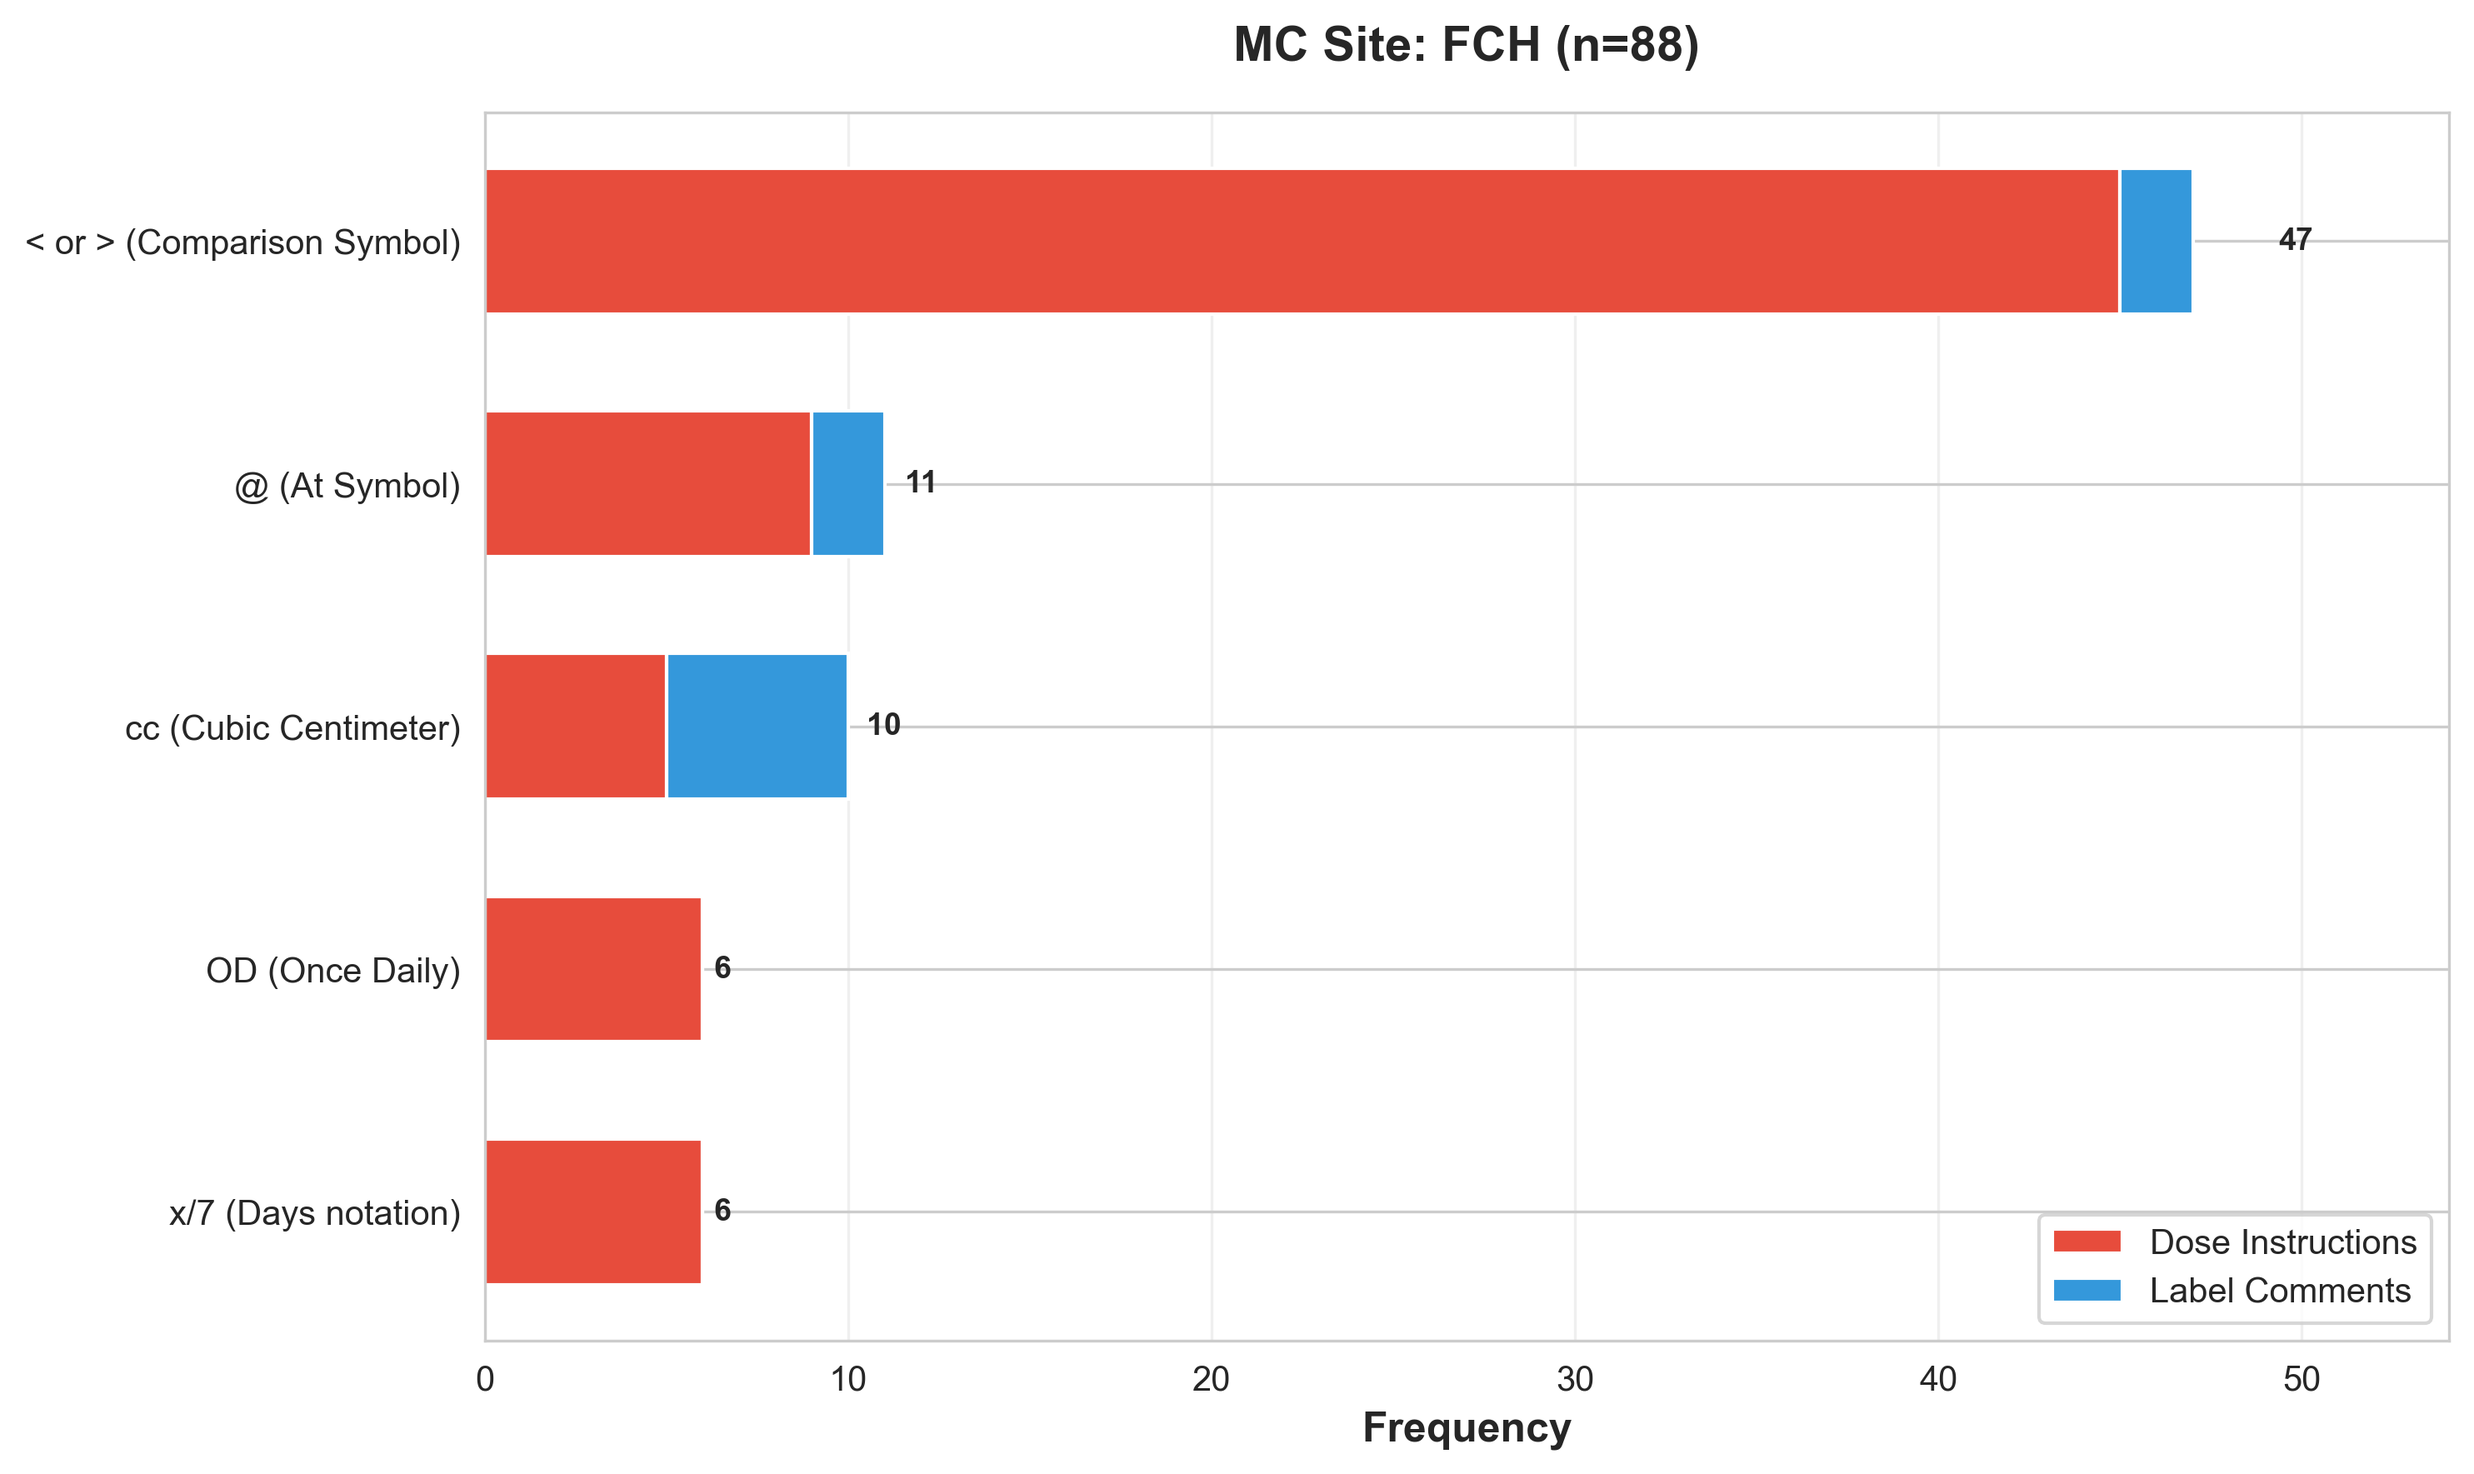
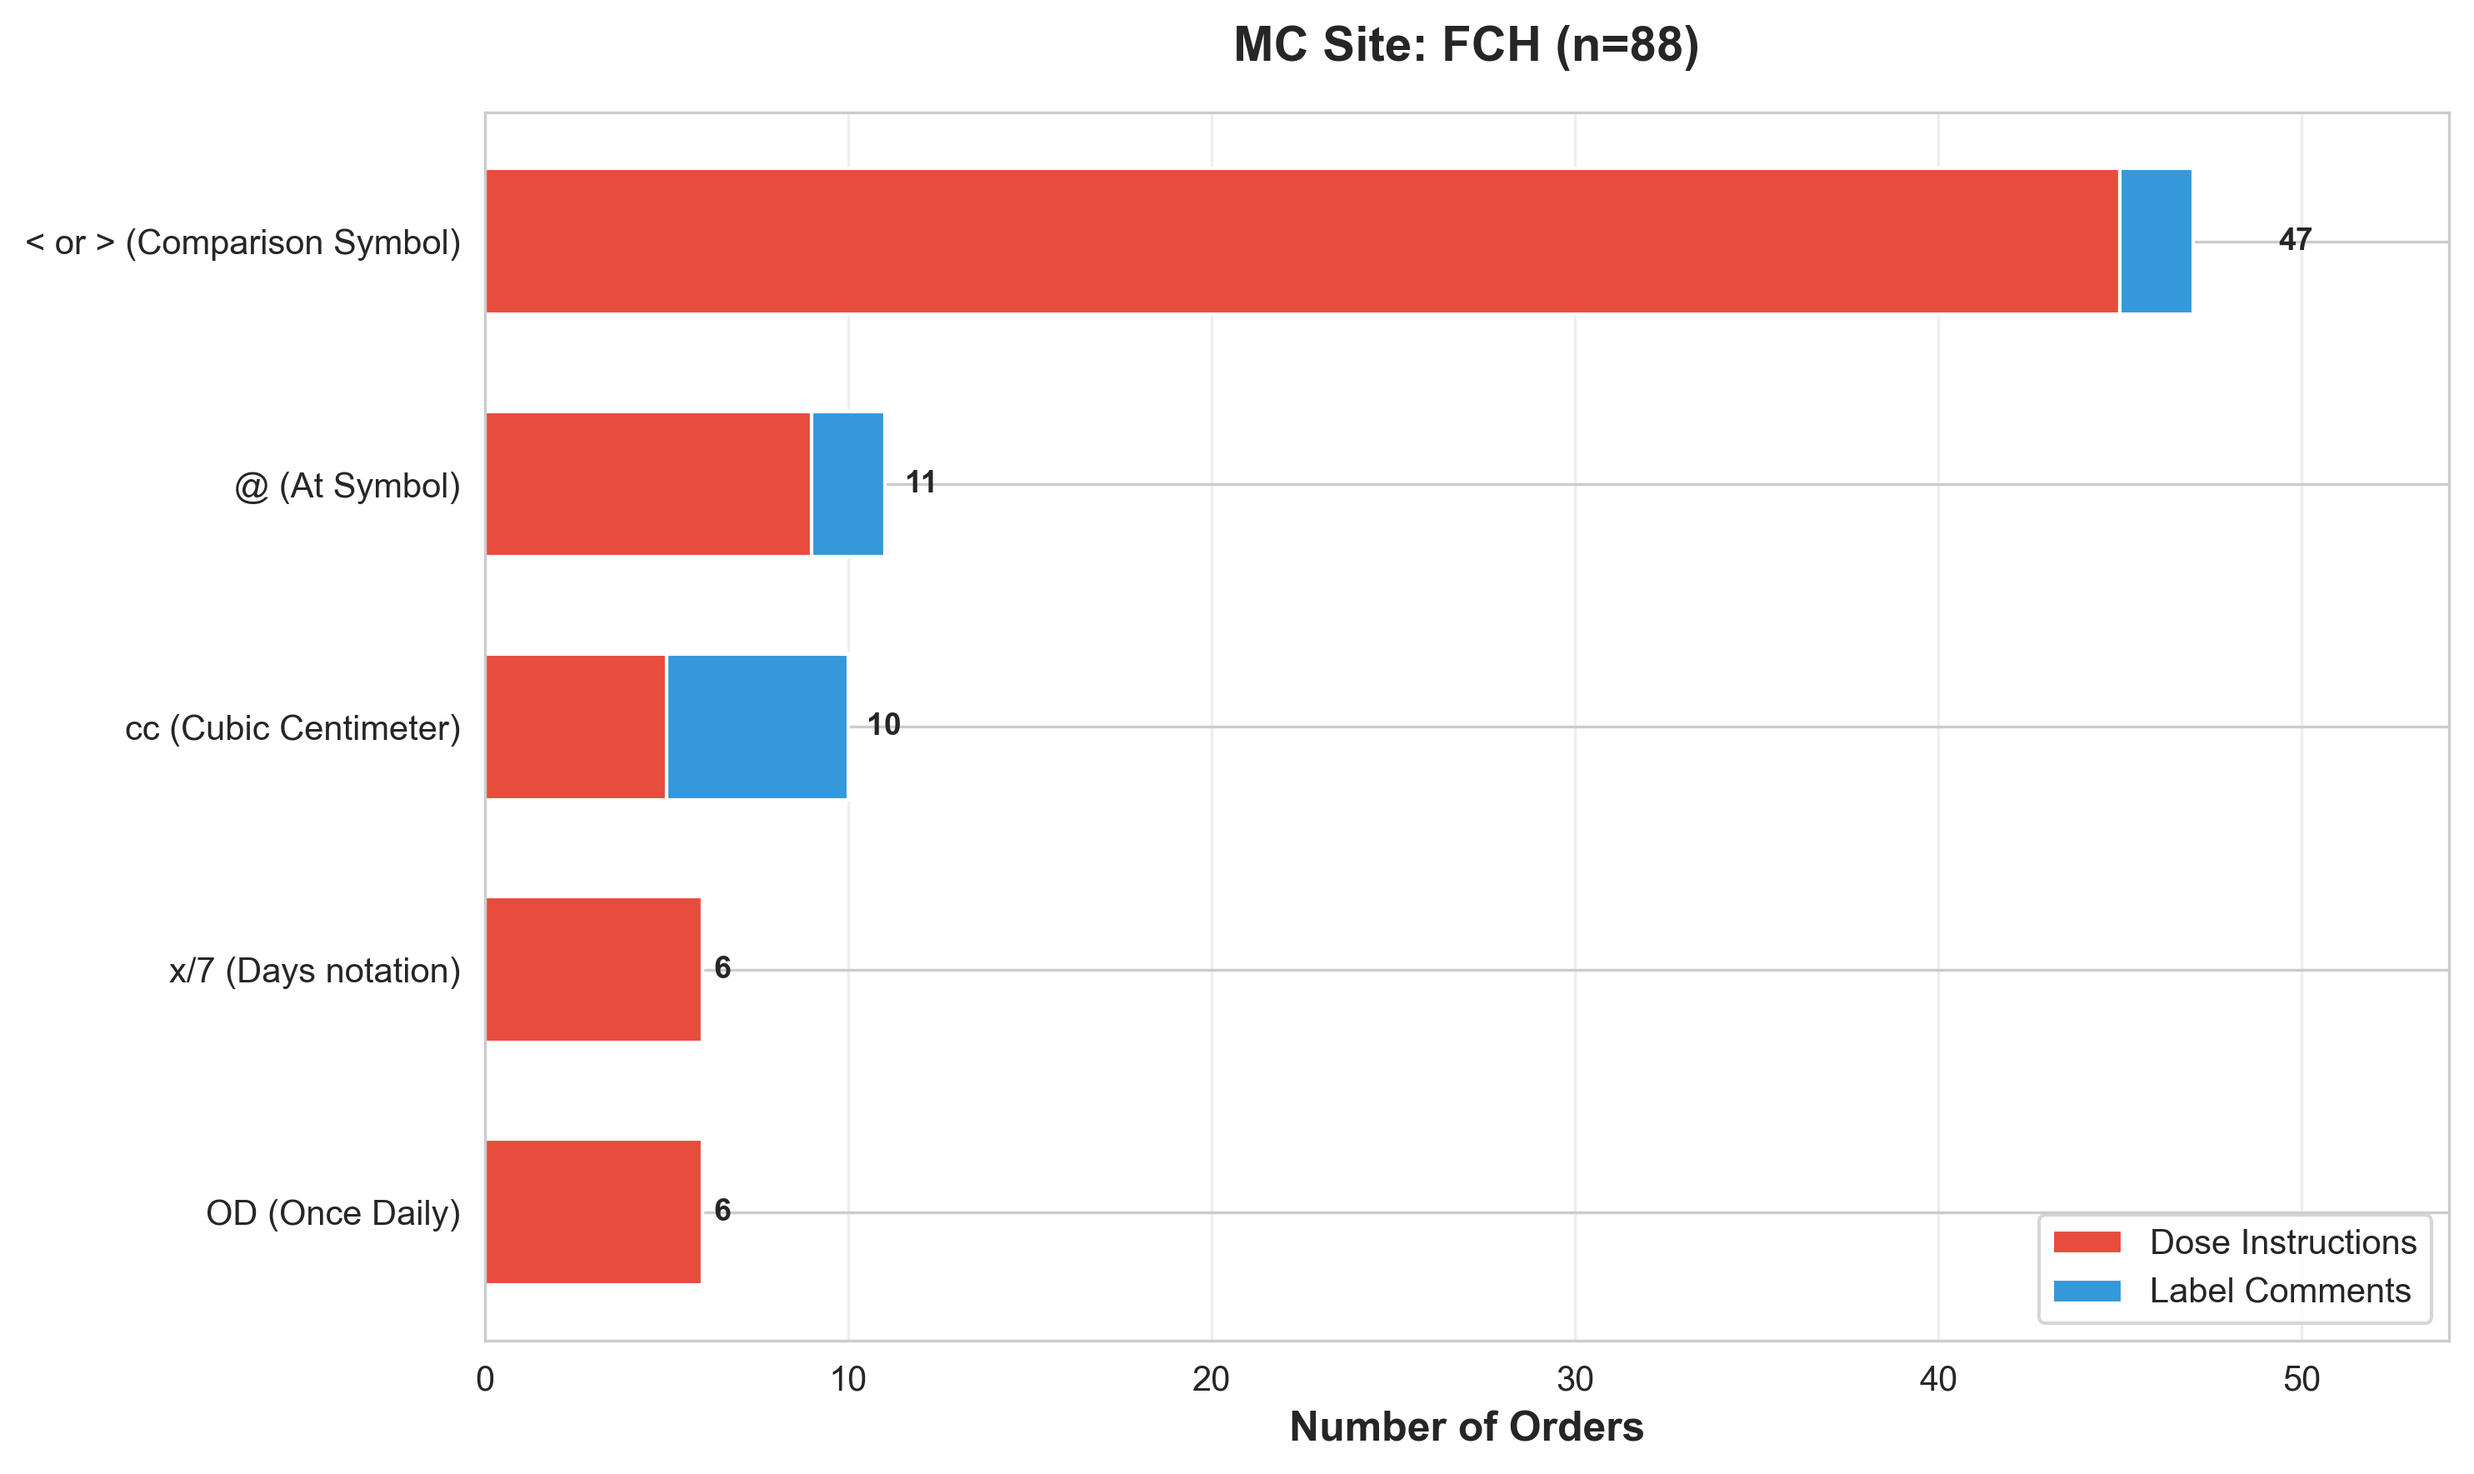
Change x-axis label from 'Frequency' to 'Number of Orders'
- Updated all charts to use 'Number of Orders' instead of 'Frequency'
- More accurate terminology since we're counting orders with abbreviations
- Applied to all frequency-based charts including:
  - Analysis overview (Figure 0)
  - Overall top 5 (Figure 1)
  - System breakdown charts (Figures 2, 3, 8, 9)
  - Individual site charts

Changed region(s): [[0.5268, 0.9638, 0.6817, 0.9949], [0.062, 0.8084, 0.1859, 0.8395], [0.062, 0.6529, 0.1859, 0.684]]

diff --git a/visualize_abbreviations.py b/visualize_abbreviations.py
@@ -223,7 +223,7 @@ p2 = ax0_1.barh(x_pos, df['Label Comments'], width, left=df['Dose Instructions']
 ax0_1.set_yticks(x_pos)
 ax0_1.set_yticklabels(df['Category'], fontsize=10)
 ax0_1.invert_yaxis()
-ax0_1.set_xlabel('Frequency', fontsize=11, fontweight='bold')
+ax0_1.set_xlabel('Number of Orders', fontsize=11, fontweight='bold')
 ax0_1.set_title(f'Top 5 Overall\n({len(data):,} Flagged Orders)', 
               fontsize=12, fontweight='bold', pad=10)
 ax0_1.legend(loc='lower right', fontsize=9)
@@ -251,7 +251,7 @@ if len(df_mc) > 0:
     ax0_2.set_yticks(x_pos)
     ax0_2.set_yticklabels(df_mc['Category'], fontsize=10)
     ax0_2.invert_yaxis()
-    ax0_2.set_xlabel('Frequency', fontsize=11, fontweight='bold')
+    ax0_2.set_xlabel('Number of Orders', fontsize=11, fontweight='bold')
     ax0_2.set_title(f'Top 5 MC System\n({len(mc_order_ids):,} Flagged Orders)', 
                   fontsize=12, fontweight='bold', pad=10)
     ax0_2.legend(loc='lower right', fontsize=9)
@@ -279,7 +279,7 @@ if len(df_cs) > 0:
     ax0_3.set_yticks(x_pos)
     ax0_3.set_yticklabels(df_cs['Category'], fontsize=10)
     ax0_3.invert_yaxis()
-    ax0_3.set_xlabel('Frequency', fontsize=11, fontweight='bold')
+    ax0_3.set_xlabel('Number of Orders', fontsize=11, fontweight='bold')
     ax0_3.set_title(f'Top 5 CS System\n({len(cs_order_ids):,} Flagged Orders)', 
                   fontsize=12, fontweight='bold', pad=10)
     ax0_3.legend(loc='lower right', fontsize=9)
@@ -317,7 +317,7 @@ p2 = ax1.barh(x_pos, df['Label Comments'], width, left=df['Dose Instructions'],
 ax1.set_yticks(x_pos)
 ax1.set_yticklabels(df['Category'], fontsize=11)
 ax1.invert_yaxis()
-ax1.set_xlabel('Frequency', fontsize=12, fontweight='bold')
+ax1.set_xlabel('Number of Orders', fontsize=12, fontweight='bold')
 ax1.set_title('Top 5 Unapproved Abbreviations (Overall)\n(Dose Instructions vs Label Comments)', 
               fontsize=14, fontweight='bold', pad=15)
 ax1.legend(loc='lower right', fontsize=10)
@@ -400,7 +400,7 @@ if len(df_mc) > 0:
     ax1.set_yticks(x_pos)
     ax1.set_yticklabels(df_mc['Category'], fontsize=9)
     ax1.invert_yaxis()
-    ax1.set_xlabel('Frequency', fontsize=11, fontweight='bold')
+    ax1.set_xlabel('Number of Orders', fontsize=11, fontweight='bold')
     ax1.set_title('Top 5 Unapproved Abbreviations - MC System (EX)\n(Stacked by Site)', 
                   fontsize=12, fontweight='bold', pad=15)
     
@@ -444,7 +444,7 @@ if len(df_mc) > 0:
             ax.set_yticks(x_pos)
             ax.set_yticklabels(site_df['Category'], fontsize=8)
             ax.invert_yaxis()
-            ax.set_xlabel('Frequency', fontsize=10, fontweight='bold')
+            ax.set_xlabel('Number of Orders', fontsize=10, fontweight='bold')
             ax.set_title(f'MC Site: {site} (n={total_count:,})', 
                         fontsize=11, fontweight='bold', pad=10)
             ax.legend(loc='lower right', fontsize=8)
@@ -491,7 +491,7 @@ if len(df_mc) > 0:
             ax.set_yticks(x_pos)
             ax.set_yticklabels(site_df['Category'], fontsize=10)
             ax.invert_yaxis()
-            ax.set_xlabel('Frequency', fontsize=12, fontweight='bold')
+            ax.set_xlabel('Number of Orders', fontsize=12, fontweight='bold')
             ax.set_title(f'MC Site: {site} (n={total_count:,})', 
                         fontsize=14, fontweight='bold', pad=15)
             ax.legend(loc='lower right', fontsize=10)
@@ -631,7 +631,7 @@ if len(df_cs) > 0:
     ax1.set_yticks(x_pos)
     ax1.set_yticklabels(df_cs['Category'], fontsize=9)
     ax1.invert_yaxis()
-    ax1.set_xlabel('Frequency', fontsize=11, fontweight='bold')
+    ax1.set_xlabel('Number of Orders', fontsize=11, fontweight='bold')
     ax1.set_title('Top 5 Unapproved Abbreviations - CS System\n(Stacked by Site)', 
                   fontsize=12, fontweight='bold', pad=15)
     
@@ -675,7 +675,7 @@ if len(df_cs) > 0:
             ax.set_yticks(x_pos)
             ax.set_yticklabels(site_df['Category'], fontsize=8)
             ax.invert_yaxis()
-            ax.set_xlabel('Frequency', fontsize=10, fontweight='bold')
+            ax.set_xlabel('Number of Orders', fontsize=10, fontweight='bold')
             ax.set_title(f'CS Site: {site} (n={total_count:,})', 
                         fontsize=11, fontweight='bold', pad=10)
             ax.legend(loc='lower right', fontsize=8)
@@ -722,7 +722,7 @@ if len(df_cs) > 0:
             ax.set_yticks(x_pos)
             ax.set_yticklabels(site_df['Category'], fontsize=10)
             ax.invert_yaxis()
-            ax.set_xlabel('Frequency', fontsize=12, fontweight='bold')
+            ax.set_xlabel('Number of Orders', fontsize=12, fontweight='bold')
             ax.set_title(f'CS Site: {site} (n={total_count:,})', 
                         fontsize=14, fontweight='bold', pad=15)
             ax.legend(loc='lower right', fontsize=10)
@@ -1099,7 +1099,7 @@ if len(all_mc_sites) > 0:
             ax.set_yticks(x_pos)
             ax.set_yticklabels(site_df['Category'], fontsize=9)
             ax.invert_yaxis()
-            ax.set_xlabel('Frequency', fontsize=10, fontweight='bold')
+            ax.set_xlabel('Number of Orders', fontsize=10, fontweight='bold')
             site_total_orders = site_counts.get((site, 'EX'), 0)
             ax.set_title(f'MC Site: {site}\n(Top 5 by Frequency - {site_total_orders:,} Total Orders)', 
                         fontsize=11, fontweight='bold', pad=10)
@@ -1160,7 +1160,7 @@ if len(all_cs_sites) > 0:
             ax.set_yticks(x_pos)
             ax.set_yticklabels(site_df['Category'], fontsize=8)
             ax.invert_yaxis()
-            ax.set_xlabel('Frequency', fontsize=9, fontweight='bold')
+            ax.set_xlabel('Number of Orders', fontsize=9, fontweight='bold')
             site_total_orders = site_counts.get((site, 'CS'), 0)
             ax.set_title(f'CS Site: {site}\n(Top 5 by Frequency - {site_total_orders:,} Total Orders)', 
                         fontsize=10, fontweight='bold', pad=10)
